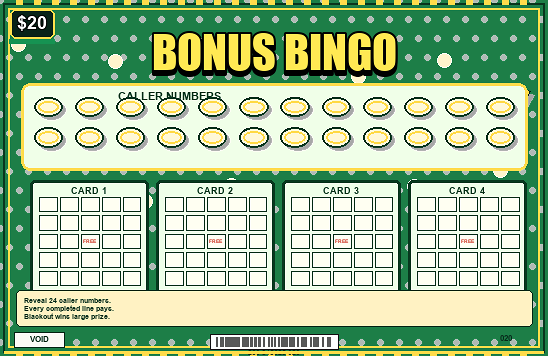
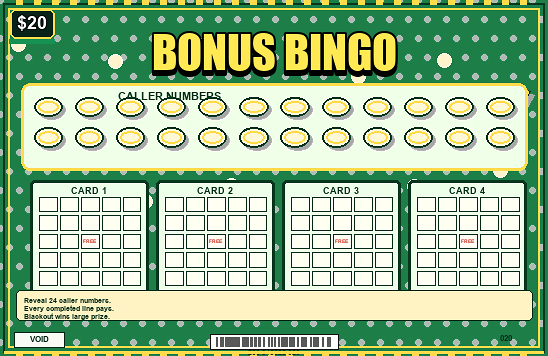
Polish scratch ticket layer layouts

Changed region(s): [[0.031, 0.8961, 0.9927, 0.927]]

diff --git a/tools/generate_scratch_ticket_art.py b/tools/generate_scratch_ticket_art.py
@@ -235,7 +235,7 @@ def money(amount: int) -> str:
 
 
 def draw_rules(draw: ImageDraw.ImageDraw, w: int, h: int, lines: list[str], ink, fill, *, y: int | None = None, compact: bool = False) -> None:
-    height = 36 if compact else 48
+    height = 30 if compact else 48
     if y is None:
         y = h - height - 28
     box = (16, y, w - 16, y + height)
@@ -285,17 +285,17 @@ def ticket_regions(ticket_id: str) -> list[tuple[str, tuple[float, float, float,
     regions: list[tuple[str, tuple[float, float, float, float]]] = []
     if ticket_id == "two_fer":
         for i in range(3):
-            regions.append(("SPOT %d" % (i + 1), (0.12 + i * 0.28, 0.42, 0.20, 0.30)))
+            regions.append(("SPOT %d" % (i + 1), (0.12 + i * 0.28, 0.50, 0.20, 0.24)))
     elif ticket_id == "lucky_7s":
         for i in range(2):
-            regions.append(("WIN %d" % (i + 1), (0.07, 0.35 + i * 0.15, 0.13, 0.11)))
+            regions.append(("WIN %d" % (i + 1), (0.075, 0.43 + i * 0.15, 0.135, 0.105)))
         for i in range(6):
-            regions.append(("YOUR %d" % (i + 1), (0.39 + (i % 3) * 0.18, 0.34 + (i // 3) * 0.17, 0.14, 0.12)))
-        regions.append(("BONUS", (0.29, 0.78, 0.17, 0.15)))
+            regions.append(("YOUR %d" % (i + 1), (0.38 + (i % 3) * 0.18, 0.42 + (i // 3) * 0.165, 0.145, 0.115)))
+        regions.append(("BONUS", (0.28, 0.80, 0.18, 0.13)))
     elif ticket_id == "tic_tac_gold":
         for i in range(9):
-            regions.append(("GRID %d" % (i + 1), (0.18 + (i % 3) * 0.18, 0.37 + (i // 3) * 0.16, 0.14, 0.13)))
-        regions.append(("BONUS", (0.73, 0.43, 0.18, 0.22)))
+            regions.append(("GRID %d" % (i + 1), (0.18 + (i % 3) * 0.18, 0.405 + (i // 3) * 0.135, 0.14, 0.105)))
+        regions.append(("BONUS", (0.73, 0.45, 0.18, 0.18)))
     elif ticket_id == "crossword_corner":
         for i in range(18):
             regions.append(("LETTER %d" % (i + 1), crossword_bank_rect(i)))
@@ -310,16 +310,16 @@ def ticket_regions(ticket_id: str) -> list[tuple[str, tuple[float, float, float,
                 regions.append(("CARD %d-%d" % (card + 1, cell + 1), (ox + (cell % 5) * 0.038, 0.55 + (cell // 5) * 0.052, 0.036, 0.046)))
     elif ticket_id == "high_roller_holdem":
         for i in range(5):
-            regions.append(("YOUR CARD %d" % (i + 1), (0.18 + i * 0.13, 0.43, 0.10, 0.075)))
+            regions.append(("YOUR CARD %d" % (i + 1), (0.16 + i * 0.135, 0.40, 0.105, 0.075)))
         for i in range(5):
-            regions.append(("DEALER CARD %d" % (i + 1), (0.18 + i * 0.13, 0.55, 0.10, 0.075)))
-        regions.append(("WILD", (0.16, 0.79, 0.68, 0.08)))
+            regions.append(("DEALER CARD %d" % (i + 1), (0.16 + i * 0.135, 0.55, 0.105, 0.075)))
+        regions.append(("WILD", (0.15, 0.74, 0.70, 0.075)))
     elif ticket_id == "golden_vault":
-        regions.append(("MULTIPLIER", (0.24, 0.47, 0.52, 0.07)))
+        regions.append(("MULTIPLIER", (0.24, 0.405, 0.52, 0.075)))
         for i in range(5):
-            regions.append(("RUNG %d" % (i + 1), (0.13, 0.63 + i * 0.046, 0.74, 0.038)))
-        regions.append(("GOLD BAR", (0.14, 0.88, 0.32, 0.052)))
-        regions.append(("FINAL VAULT", (0.50, 0.88, 0.34, 0.052)))
+            regions.append(("RUNG %d" % (i + 1), (0.13, 0.535 + i * 0.055, 0.74, 0.045)))
+        regions.append(("GOLD BAR", (0.13, 0.825, 0.34, 0.060)))
+        regions.append(("FINAL VAULT", (0.53, 0.825, 0.34, 0.060)))
     return regions
 
 
@@ -352,10 +352,10 @@ def draw_two_fer(ticket: TicketArt) -> Image.Image:
     draw_ticket_edge(d, w, h, (255, 222, 79, 255), (72, 21, 28, 255))
     draw_price_badge(d, ticket.price, (255, 220, 79, 255), (242, 52, 78, 255), (32, 22, 29, 255))
     draw_title(d, w, "TWO FER", 28, (255, 238, 145, 255), size=56)
-    draw_prize_ribbon(d, w, 86, f"WIN UP TO {money(ticket.top_prize)}", (255, 218, 80, 255), (26, 142, 83, 255), (52, 25, 35, 255), left=166, right_margin=34)
-    panel = (36, 116, w - 36, 188)
+    draw_prize_ribbon(d, w, 86, f"WIN UP TO {money(ticket.top_prize)}", (255, 218, 80, 255), (26, 142, 83, 255), (52, 25, 35, 255), left=150, right_margin=34)
+    panel = (34, 108, w - 34, 184)
     rounded(d, panel, 16, (255, 240, 177, 255), (53, 29, 33, 255), 3)
-    center_text(d, (panel[0], 104, panel[2] - panel[0], 18), "MATCH ANY TWO SYMBOLS", 14, (53, 29, 33, 255), stroke_fill=(255, 255, 255, 200), stroke_width=1)
+    center_text(d, (panel[0], 112, panel[2] - panel[0], 16), "MATCH ANY TWO SYMBOLS", 12, (53, 29, 33, 255), stroke_fill=(255, 255, 255, 200), stroke_width=1)
     for label_text, r in ticket_regions(ticket.ticket_id):
         well(d, rect_abs(r, (w, h), 2), shape="rect", fill=(255, 245, 193, 255), outline=(46, 24, 31, 255), trim=(238, 45, 93, 255), label_text="")
     legends = [("CLOVER", 2), ("BELL", 4), ("STAR", 10), ("2FER", 50)]
@@ -378,13 +378,13 @@ def draw_lucky_7s(ticket: TicketArt) -> Image.Image:
     center_text(d, (66, 18, w - 88, 76), "LUCKY", 45, (255, 234, 96, 255), condensed=True, stroke_fill=(15, 26, 54, 255), stroke_width=3)
     center_text(d, (105, 68, w - 136, 80), "7s", 88, (235, 45, 78, 255), condensed=True, stroke_fill=(255, 232, 78, 255), stroke_width=2)
     draw_prize_ribbon(d, w, 116, f"TOP PRIZE {money(ticket.top_prize)}", (255, 233, 75, 255), (239, 45, 91, 255), (16, 26, 54, 255), left=166, right_margin=18)
-    rounded(d, rect_abs((0.045, 0.325, 0.18, 0.33), (w, h), 0), 10, (236, 45, 89, 255), (255, 239, 66, 255), 3)
-    center_text(d, (18, 114, 65, 18), "WINNING", 8, (255, 255, 255, 255), stroke_fill=(0, 0, 0, 255), stroke_width=1)
-    rounded(d, rect_abs((0.35, 0.29, 0.57, 0.37), (w, h), 0), 13, (8, 56, 38, 245), (255, 239, 66, 255), 3)
-    center_text(d, (136, 107, 187, 18), "YOUR NUMBERS", 10, (255, 255, 255, 255), stroke_fill=(0, 0, 0, 255), stroke_width=1)
-    rounded(d, rect_abs((0.25, 0.745, 0.45, 0.19), (w, h), 0), 8, (11, 74, 115, 245), (255, 239, 66, 255), 3)
-    center_text(d, (92, 265, 68, 20), "BONUS", 14, (255, 239, 66, 255), stroke_fill=(0, 0, 0, 255), stroke_width=1)
-    label(d, (164, 286), "REVEAL A 7\nWIN $50", 10, (255, 255, 255, 255), bold=True, stroke=(0, 0, 0, 255))
+    rounded(d, rect_abs((0.045, 0.395, 0.19, 0.31), (w, h), 0), 10, (236, 45, 89, 245), (255, 239, 66, 255), 3)
+    center_text(d, (14, 139, 74, 18), "WINNING", 8, (255, 255, 255, 255), stroke_fill=(0, 0, 0, 255), stroke_width=1)
+    rounded(d, rect_abs((0.34, 0.375, 0.59, 0.35), (w, h), 0), 13, (8, 56, 38, 245), (255, 239, 66, 255), 3)
+    center_text(d, (126, 132, 198, 18), "YOUR NUMBERS", 10, (255, 255, 255, 255), stroke_fill=(0, 0, 0, 255), stroke_width=1)
+    rounded(d, rect_abs((0.245, 0.765, 0.50, 0.18), (w, h), 0), 8, (11, 74, 115, 245), (255, 239, 66, 255), 3)
+    center_text(d, (88, 273, 76, 18), "BONUS", 13, (255, 239, 66, 255), stroke_fill=(0, 0, 0, 255), stroke_width=1)
+    label(d, (168, 286), "REVEAL A 7\nWIN $50", 9, (255, 255, 255, 255), bold=True, stroke=(0, 0, 0, 255))
     for txt, r in ticket_regions(ticket.ticket_id):
         section_shape = "circle" if not txt.startswith("BONUS") else "rect"
         well(d, rect_abs(r, (w, h), 2), shape=section_shape, fill=(15, 27, 50, 255), outline=(5, 10, 24, 255), trim=(255, 225, 59, 255))
@@ -402,18 +402,18 @@ def draw_tic_tac_gold(ticket: TicketArt) -> Image.Image:
         d.polygon(star_points(x, y, 7, 3), fill=(255, 219, 58, 165))
     draw_ticket_edge(d, w, h, (255, 219, 65, 255), (8, 30, 20, 255))
     draw_price_badge(d, ticket.price, (255, 219, 65, 255), (18, 133, 70, 255), (8, 22, 18, 255))
-    draw_title(d, w, "TIC TAC", 33, (255, 235, 139, 255), size=43)
-    draw_title(d, w, "GOLD", 82, (255, 207, 53, 255), size=64)
-    draw_prize_ribbon(d, w, 137, f"TOP PRIZE {money(ticket.top_prize)}", (255, 222, 72, 255), (14, 115, 64, 255), (13, 28, 21, 255), left=178, right_margin=22)
-    rounded(d, rect_abs((0.12, 0.32, 0.52, 0.55), (w, h), -6), 11, (9, 21, 28, 240), (255, 222, 72, 255), 3)
-    center_text(d, (39, 117, 192, 17), "3 IN A ROW WINS PRINTED PRIZE", 9, (255, 255, 255, 255), stroke_fill=(0, 0, 0, 255), stroke_width=1)
+    draw_title(d, w, "TIC TAC", 24, (255, 235, 139, 255), size=37)
+    draw_title(d, w, "GOLD", 64, (255, 207, 53, 255), size=50)
+    draw_prize_ribbon(d, w, 121, f"TOP PRIZE {money(ticket.top_prize)}", (255, 222, 72, 255), (14, 115, 64, 255), (13, 28, 21, 255), left=178, right_margin=22)
+    rounded(d, rect_abs((0.12, 0.365, 0.52, 0.42), (w, h), -6), 11, (9, 21, 28, 240), (255, 222, 72, 255), 3)
+    center_text(d, (39, 132, 192, 16), "3 IN A ROW WINS PRINTED PRIZE", 8, (255, 255, 255, 255), stroke_fill=(0, 0, 0, 255), stroke_width=1)
     for txt, r in ticket_regions(ticket.ticket_id):
         if txt.startswith("GRID"):
             well(d, rect_abs(r, (w, h), 1), shape="rect", fill=(255, 239, 184, 255), outline=(12, 22, 29, 255), trim=(255, 222, 72, 255))
-    rounded(d, rect_abs((0.70, 0.37, 0.24, 0.32), (w, h), -4), 18, (20, 55, 41, 245), (255, 222, 72, 255), 3)
-    center_text(d, (251, 137, 73, 23), "BONUS", 13, (255, 222, 72, 255), stroke_fill=(0, 0, 0, 255), stroke_width=1)
-    well(d, rect_abs((0.73, 0.43, 0.18, 0.22), (w, h), 2), shape="rect", fill=(255, 239, 184, 255), outline=(12, 22, 29, 255), trim=(255, 222, 72, 255))
-    draw_rules(d, w, h, ["Full WIN line pays.", "Multiple lines add.", "BONUS is instant."], (9, 30, 20, 255), (255, 243, 185, 230), y=288, compact=True)
+    rounded(d, rect_abs((0.70, 0.39, 0.24, 0.28), (w, h), -4), 18, (20, 55, 41, 245), (255, 222, 72, 255), 3)
+    center_text(d, (251, 144, 73, 20), "BONUS", 12, (255, 222, 72, 255), stroke_fill=(0, 0, 0, 255), stroke_width=1)
+    well(d, rect_abs((0.73, 0.45, 0.18, 0.18), (w, h), 2), shape="rect", fill=(255, 239, 184, 255), outline=(12, 22, 29, 255), trim=(255, 222, 72, 255))
+    draw_rules(d, w, h, ["Full WIN line pays.", "Multiple lines add.", "BONUS is instant."], (9, 30, 20, 255), (255, 243, 185, 230), y=292, compact=True)
     draw_footer(d, w, h, (9, 30, 20, 255), (255, 222, 72, 255), "280-345625-010")
     return img
 
@@ -500,16 +500,16 @@ def draw_holdem(ticket: TicketArt) -> Image.Image:
     draw_title(d, w, "HIGH ROLLER", 28, (255, 235, 142, 255), size=39)
     draw_title(d, w, "HOLD'EM", 70, (255, 220, 92, 255), size=45)
     draw_prize_ribbon(d, w, 125, f"TOP PRIZE {money(ticket.top_prize)}", (229, 188, 73, 255), (143, 43, 82, 255), (23, 15, 30, 255), left=42, right_margin=24)
-    rounded(d, rect_abs((0.10, 0.39, 0.80, 0.28), (w, h), -5), 10, (18, 83, 55, 245), (229, 188, 73, 255), 3)
-    center_text(d, (28, 139, w - 56, 16), "YOUR HAND", 10, (255, 238, 165, 255), stroke_fill=(0, 0, 0, 255), stroke_width=1)
-    rounded(d, rect_abs((0.10, 0.52, 0.80, 0.16), (w, h), -5), 10, (41, 25, 31, 245), (229, 188, 73, 255), 3)
-    center_text(d, (28, 183, w - 56, 16), "DEALER'S HAND", 10, (255, 238, 165, 255), stroke_fill=(0, 0, 0, 255), stroke_width=1)
+    rounded(d, rect_abs((0.09, 0.365, 0.82, 0.15), (w, h), -5), 10, (18, 83, 55, 245), (229, 188, 73, 255), 3)
+    center_text(d, (28, 134, w - 56, 16), "YOUR HAND", 10, (255, 238, 165, 255), stroke_fill=(0, 0, 0, 255), stroke_width=1)
+    rounded(d, rect_abs((0.09, 0.515, 0.82, 0.15), (w, h), -5), 10, (41, 25, 31, 245), (229, 188, 73, 255), 3)
+    center_text(d, (28, 189, w - 56, 16), "DEALER'S HAND", 10, (255, 238, 165, 255), stroke_fill=(0, 0, 0, 255), stroke_width=1)
     for txt, r in ticket_regions(ticket.ticket_id):
         shape = "card" if "CARD" in txt else "rect"
         well(d, rect_abs(r, (w, h), 1), shape=shape, fill=(255, 246, 216, 255), outline=(32, 22, 27, 255), trim=(229, 188, 73, 255))
-    rounded(d, rect_abs((0.12, 0.755, 0.76, 0.18), (w, h), -4), 8, (27, 15, 30, 245), (229, 188, 73, 255), 3)
-    center_text(d, (31, 278, w - 62, 16), "WILD / POCKET ACES", 10, (255, 238, 165, 255), stroke_fill=(0, 0, 0, 255), stroke_width=1)
-    draw_rules(d, w, h, ["Reveal both 5-card hands.", "Beat dealer to win.", "Wild improves your hand."], (26, 15, 30, 255), (255, 239, 188, 230), y=318, compact=True)
+    rounded(d, rect_abs((0.12, 0.715, 0.76, 0.14), (w, h), -4), 8, (27, 15, 30, 245), (229, 188, 73, 255), 3)
+    center_text(d, (31, 263, w - 62, 15), "WILD / POCKET ACES", 9, (255, 238, 165, 255), stroke_fill=(0, 0, 0, 255), stroke_width=1)
+    draw_rules(d, w, h, ["Reveal both hands.", "Beat dealer to win.", "Wild improves hand."], (26, 15, 30, 255), (255, 239, 188, 230), y=306, compact=True)
     draw_footer(d, w, h, (26, 15, 30, 255), (229, 188, 73, 255), "280-345625-050")
     return img
 
@@ -527,20 +527,22 @@ def draw_golden_vault(ticket: TicketArt) -> Image.Image:
     draw_price_badge(d, ticket.price, (255, 220, 92, 255), (107, 73, 25, 255), (18, 17, 25, 255))
     draw_title(d, w, "GOLDEN", 32, (255, 232, 128, 255), size=44)
     draw_title(d, w, "VAULT", 76, (255, 216, 70, 255), size=53)
-    draw_prize_ribbon(d, w, 135, f"TOP PRIZE {money(ticket.top_prize)}", (255, 220, 92, 255), (132, 89, 27, 255), (18, 17, 25, 255), left=42, right_margin=24)
-    d.rectangle((44, 184, w - 44, 202), fill=(95, 61, 19, 255), outline=(255, 220, 92, 255), width=2)
-    center_text(d, (44, 181, w - 88, 20), "YOUR MULTIPLIER", 9, (255, 241, 163, 255), stroke_fill=(0, 0, 0, 255), stroke_width=1)
-    well(d, rect_abs((0.24, 0.47, 0.52, 0.07), (w, h), 1), shape="rect", fill=(38, 25, 23, 255), outline=(14, 13, 18, 255), trim=(255, 220, 92, 255))
-    rounded(d, rect_abs((0.10, 0.60, 0.80, 0.27), (w, h), -5), 10, (36, 26, 21, 245), (255, 220, 92, 255), 3)
-    center_text(d, (34, 219, w - 68, 17), "CASH LADDER", 10, (255, 241, 163, 255), stroke_fill=(0, 0, 0, 255), stroke_width=1)
+    draw_prize_ribbon(d, w, 128, f"TOP PRIZE {money(ticket.top_prize)}", (255, 220, 92, 255), (132, 89, 27, 255), (18, 17, 25, 255), left=42, right_margin=24)
+    d.rectangle((44, 156, w - 44, 184), fill=(95, 61, 19, 255), outline=(255, 220, 92, 255), width=2)
+    center_text(d, (44, 150, w - 88, 18), "YOUR MULTIPLIER", 9, (255, 241, 163, 255), stroke_fill=(0, 0, 0, 255), stroke_width=1)
+    well(d, rect_abs((0.24, 0.405, 0.52, 0.075), (w, h), 1), shape="rect", fill=(38, 25, 23, 255), outline=(14, 13, 18, 255), trim=(255, 220, 92, 255))
+    rounded(d, rect_abs((0.10, 0.50, 0.80, 0.315), (w, h), -5), 10, (36, 26, 21, 245), (255, 220, 92, 255), 3)
+    center_text(d, (34, 185, w - 68, 17), "CASH LADDER", 10, (255, 241, 163, 255), stroke_fill=(0, 0, 0, 255), stroke_width=1)
     for txt, r in ticket_regions(ticket.ticket_id):
         if txt.startswith("RUNG"):
             well(d, rect_abs(r, (w, h), 1), shape="rect", fill=(46, 31, 23, 255), outline=(12, 11, 16, 255), trim=(255, 220, 92, 255))
-    center_text(d, rect_xywh((0.14, 0.856, 0.32, 0.018), (w, h)), "GOLD BAR", 8, (255, 241, 163, 255), stroke_fill=(0, 0, 0, 255), stroke_width=1)
-    center_text(d, rect_xywh((0.50, 0.856, 0.34, 0.018), (w, h)), "FINAL VAULT", 8, (255, 241, 163, 255), stroke_fill=(0, 0, 0, 255), stroke_width=1)
-    well(d, rect_abs((0.14, 0.88, 0.32, 0.052), (w, h), 1), shape="rect", fill=(48, 31, 24, 255), outline=(12, 11, 16, 255), trim=(255, 220, 92, 255))
-    well(d, rect_abs((0.50, 0.88, 0.34, 0.052), (w, h), 1), shape="rect", fill=(48, 31, 24, 255), outline=(12, 11, 16, 255), trim=(255, 220, 92, 255))
-    draw_rules(d, w, h, ["Matched rungs pay multiplier.", "GOLD BAR wins ladder.", "Final vault holds top prize."], (255, 238, 168, 255), (18, 17, 25, 210), y=312, compact=True)
+    center_text(d, rect_xywh((0.13, 0.798, 0.34, 0.020), (w, h)), "GOLD BAR", 8, (255, 241, 163, 255), stroke_fill=(0, 0, 0, 255), stroke_width=1)
+    center_text(d, rect_xywh((0.53, 0.798, 0.34, 0.020), (w, h)), "FINAL VAULT", 8, (255, 241, 163, 255), stroke_fill=(0, 0, 0, 255), stroke_width=1)
+    well(d, rect_abs((0.13, 0.825, 0.34, 0.060), (w, h), 1), shape="rect", fill=(48, 31, 24, 255), outline=(12, 11, 16, 255), trim=(255, 220, 92, 255))
+    well(d, rect_abs((0.53, 0.825, 0.34, 0.060), (w, h), 1), shape="rect", fill=(48, 31, 24, 255), outline=(12, 11, 16, 255), trim=(255, 220, 92, 255))
+    rule_band = (14, 328, w - 14, 339)
+    rounded(d, rule_band, 3, (18, 17, 25, 215), (255, 220, 92, 255), 1)
+    center_text(d, (rule_band[0] + 3, rule_band[1], rule_band[2] - rule_band[0] - 6, rule_band[3] - rule_band[1]), "Rungs pay multiplier • Gold bar wins ladder • Final vault top prize", 6, (255, 238, 168, 255), bold=True)
     draw_footer(d, w, h, (255, 238, 168, 255), (255, 220, 92, 255), "280-345625-100")
     return img
 
